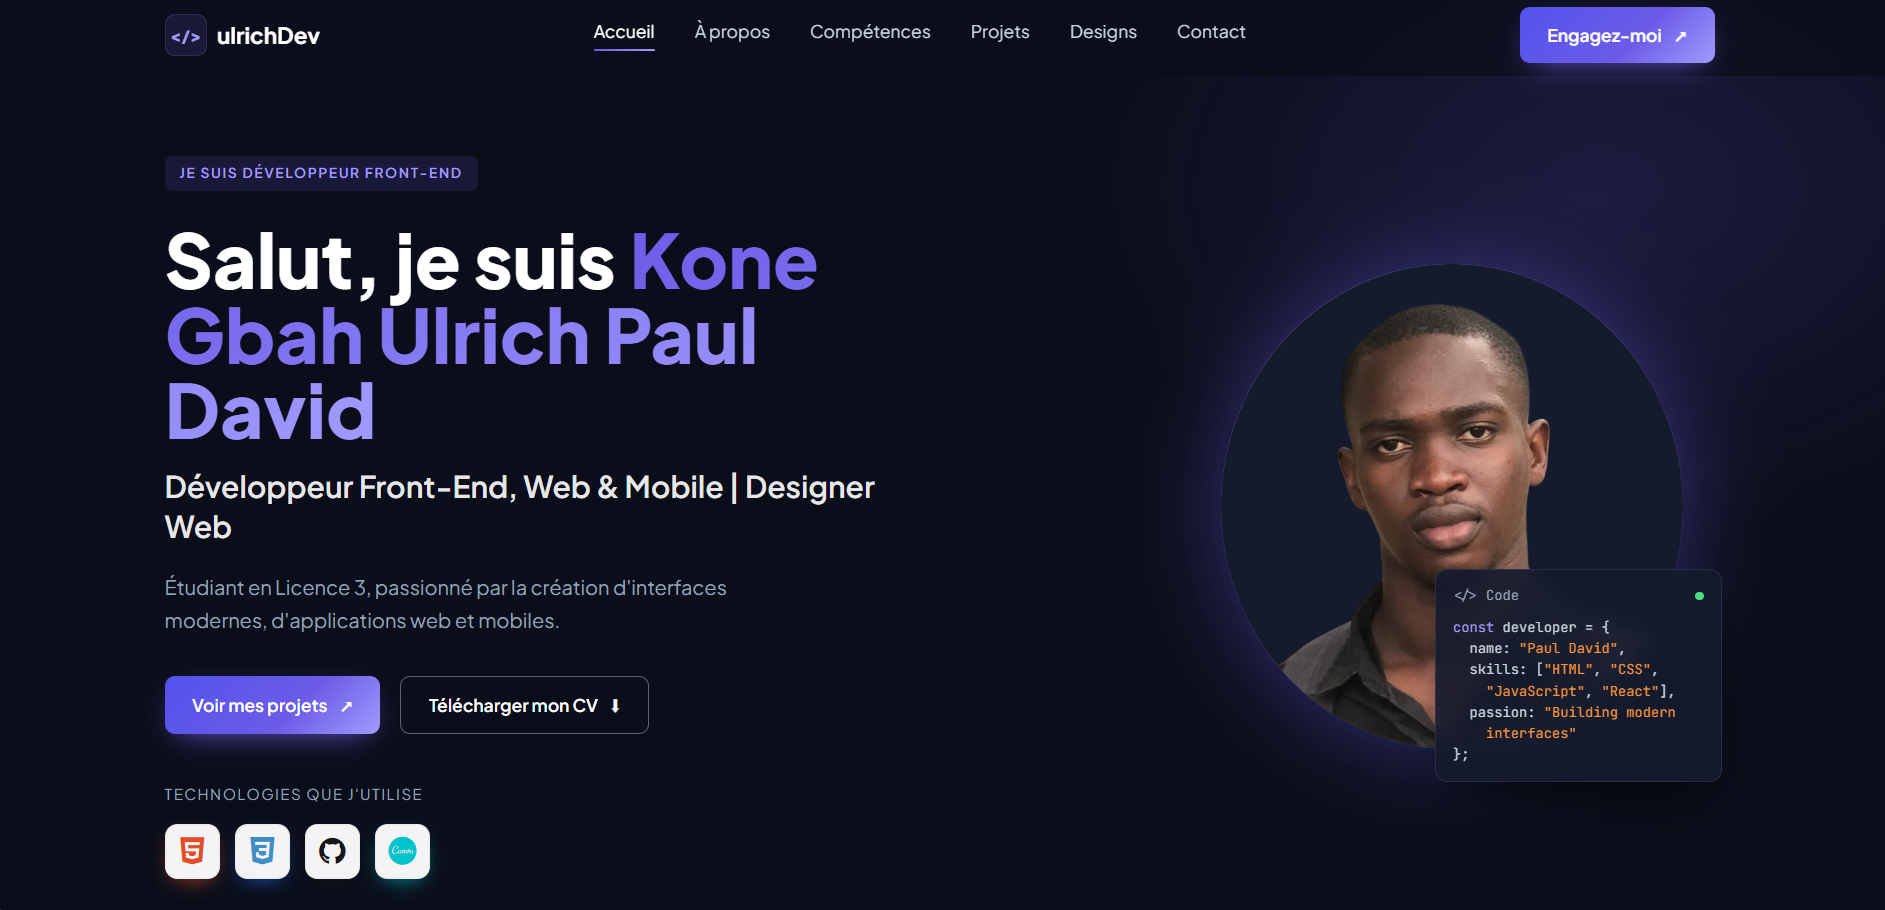
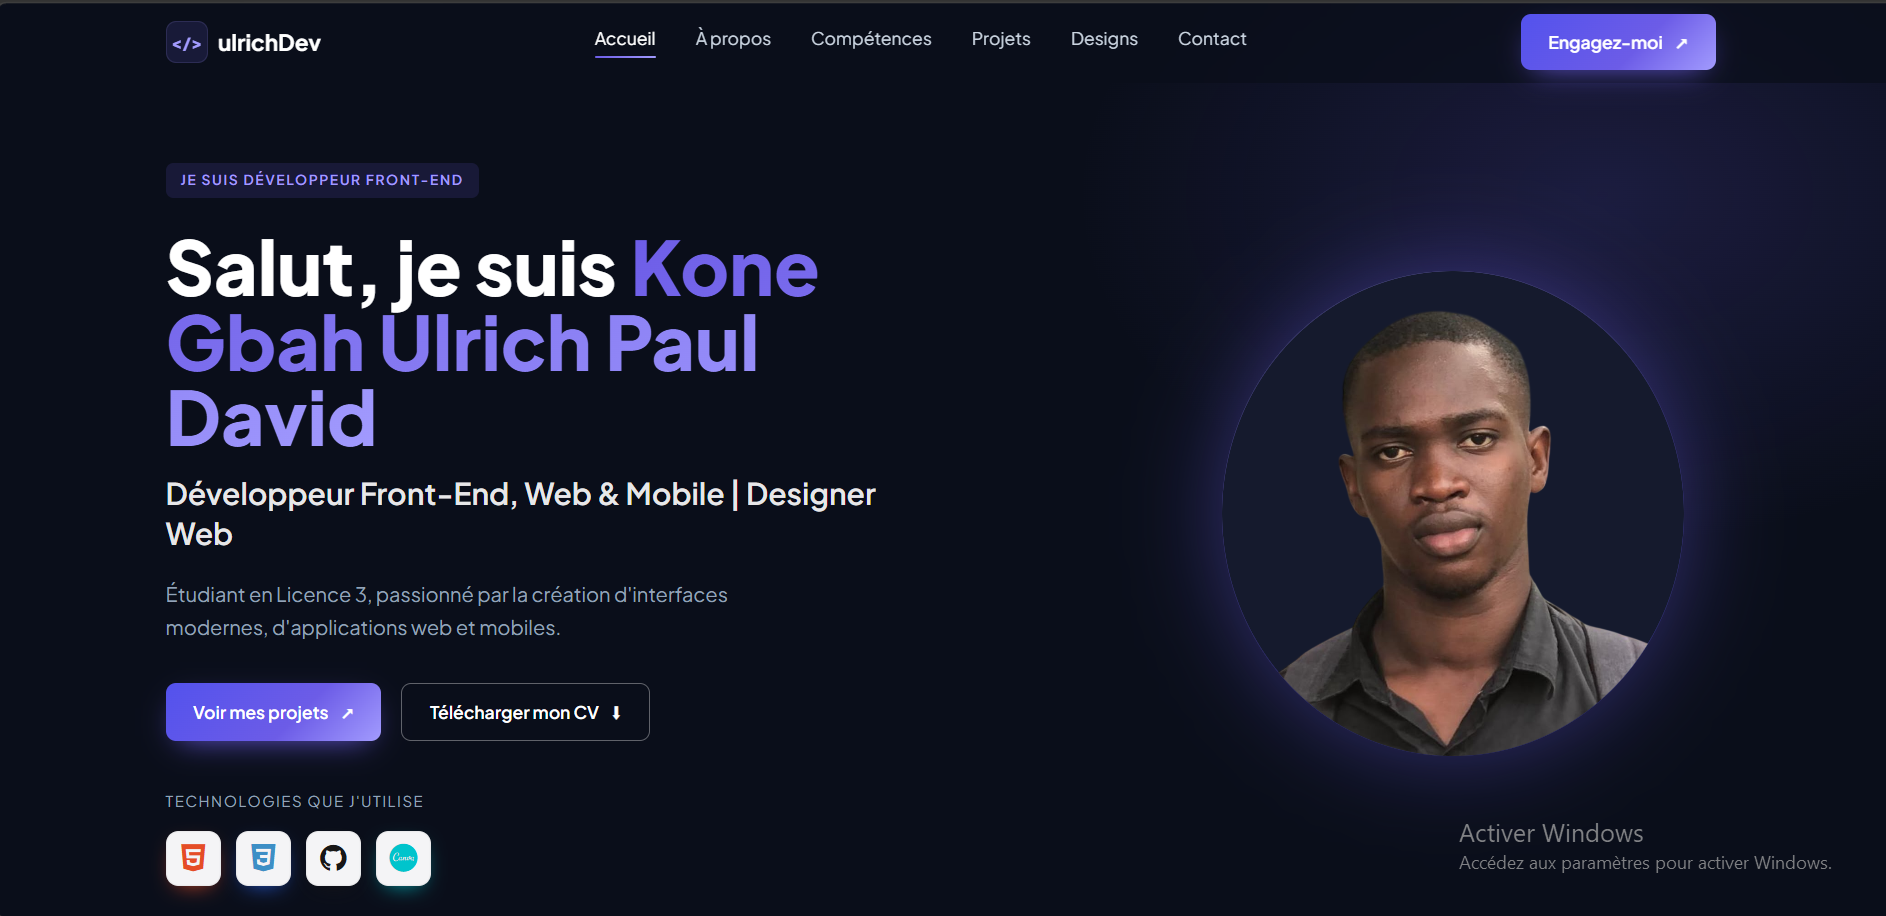
Suppression de la carte code à côté de la photo

diff --git a/index.html b/index.html
@@ -124,21 +124,9 @@
               <img id="profilePhoto" src="WhatsApp Image 2026-10-08 at 08.55.27-Photoroom.png" alt="Photo de Kone Gbah Ulrich Paul David" />
             </div>
 
-            <div class="code-card">
-              <div class="flex items-center justify-between mb-2 text-[11px] text-slate-400">
-                <span>&lt;/&gt; Code</span><span class="dot"></span>
-              </div>
-<pre><span class="k">const</span> developer = {
-  name: <span class="s">"Paul David"</span>,
-  skills: [<span class="s">"HTML"</span>, <span class="s">"CSS"</span>,
-    <span class="s">"JavaScript"</span>, <span class="s">"React"</span>],
-  passion: <span class="s">"Building modern
-    interfaces"</span>
-};</pre>
-            </div>
+            
           </div>
         </div>
-
       </div>
     </section>
 
